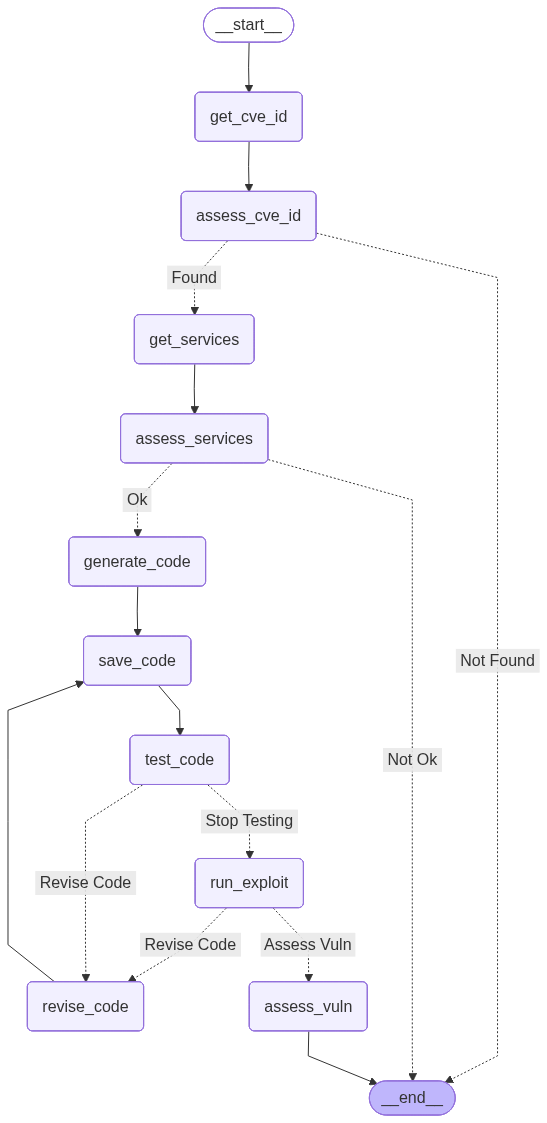
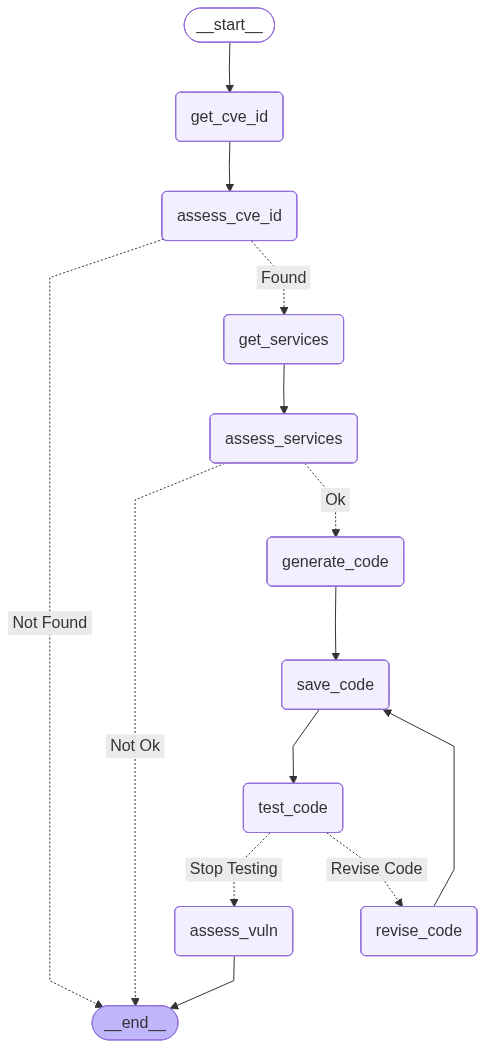
Finalised

diff --git a/src/docker_agent/nodes.py b/src/docker_agent/nodes.py
@@ -820,35 +820,6 @@ def revise_code(state: OverallState):
     }
 
 
-#TODO: define this function
-def run_exploit(state: OverallState):
-    """A PoC is used to exploit the CVE and check if the Docker is vulnerable (but only if the Docker runs)"""
-    
-    if state.milestones.docker_builds and state.milestones.docker_runs:
-        print("\nExploiting Docker vulnerability...")
-        
-    return {"stats": state.stats}
-
-
-def route_exploit(state: OverallState) -> Literal["Assess Vuln", "Revise Code"]:
-    """Route back to fix the code or assess the vulnerability"""
-    output_string = "\nRouting exploit:\n"
-    output_string += f"\t- docker_builds={state.milestones.docker_builds}\n"
-    output_string += f"\t- docker_runs={state.milestones.docker_runs}\n"
-    output_string += f"\t- code_hard_version={state.milestones.code_hard_version}\n"
-    output_string += f"\t- network_setup={state.milestones.network_setup}\n"
-    output_string += f"\t- test_iteration={state.stats.test_iteration}"
-    print(output_string)
-    
-    if state.milestones.docker_builds and state.milestones.docker_runs and state.milestones.code_hard_version and state.milestones.network_setup:        
-        return "Assess Vuln"
-    elif state.stats.test_iteration + 1 >= 10:
-        print("\tMax Iterations Reached!")
-        return "Assess Vuln"
-    else:            
-        return "Revise Code"
-
-
 def run_docker_scout(code_dir_path, index, iid):
     try:
         with builtins.open(f"{code_dir_path}/logs/cves{index}.json", "w") as f:

diff --git a/src/docker_agent/agent.py b/src/docker_agent/agent.py
@@ -17,8 +17,8 @@ from graph import compiled_workflow
 
 def draw_graph():
     try:
-        print(compiled_workflow.get_graph().draw_mermaid())
-        # display(Image(compiled_workflow.get_graph().draw_mermaid_png(output_file_path="Mermaid Chart.png")))
+        # print(compiled_workflow.get_graph().draw_mermaid())
+        display(Image(compiled_workflow.get_graph().draw_mermaid_png(output_file_path="Mermaid Chart.png")))
         
     except Exception as e:
         print(f"Rendering failed with code {e}.\nHere's the Mermaid source:\n{compiled_workflow.get_graph().draw_mermaid()}")
@@ -911,18 +911,18 @@ def best_cve_runs(model: str, logs_set: str, iteration: str, mode: str):
 # )
 
 #* VULNERABILITY ASSESSMENT RELATED STATS *#
-with builtins.open('services.json', "r") as f:
-    jsonServices = json.load(f)
-cve_list = list(jsonServices.keys())[:20]
-df = vuln_ass_stats(
-    cve_list=cve_list, 
-    model="GPT-4o", 
-    logs_set="5th", 
-    iteration="", 
-    web_search_mode="",
-    correct_web_search_only=True,
-    correct_docker_only=False,
-)
+# with builtins.open('services.json', "r") as f:
+#     jsonServices = json.load(f)
+# cve_list = list(jsonServices.keys())[:20]
+# df = vuln_ass_stats(
+#     cve_list=cve_list, 
+#     model="GPT-4o", 
+#     logs_set="5th", 
+#     iteration="", 
+#     web_search_mode="",
+#     correct_web_search_only=True,
+#     correct_docker_only=False,
+# )
 
 
 

diff --git a/src/docker_agent/graph.py b/src/docker_agent/graph.py
@@ -25,7 +25,6 @@ workflow.add_node("save_code", nodes.save_code)
 workflow.add_node("test_code", nodes.test_code)
 workflow.add_node("revise_code", nodes.revise_code)
 workflow.add_node("assess_vuln", nodes.assess_vuln)
-workflow.add_node("run_exploit", nodes.run_exploit)
 
 # Add edges to the workflow
 workflow.add_edge(START, "get_cve_id")
@@ -53,15 +52,7 @@ workflow.add_conditional_edges(
     "test_code",
     nodes.route_test,
     {
-        "Stop Testing": "run_exploit",
-        "Revise Code": "revise_code",
-    },
-)
-workflow.add_conditional_edges(
-    "run_exploit",
-    nodes.route_exploit,
-    {
-        "Assess Vuln": "assess_vuln",
+        "Stop Testing": "assess_vuln",
         "Revise Code": "revise_code",
     },
 )

diff --git a/src/TODOLIST.md b/src/TODOLIST.md
@@ -1,13 +1,10 @@
 # TODOLIST
-Fai una nuova run con GPT-5, poi prepara le slide
 
 
-## Useful for Thesis
+## 4 Thesis
+Benchmark hybrid agent with reusing GPT-4o web search results (maybe just for best web search mode) and GPT-5 reasoning for code development.
+Test the 4 models using local LLMs (wait for API to be up).
 
-
-### Docker Validation with PoC
-- Ultimate goal of the **_run\_exploit_** node function is to launch the PoC for the specific CVE, extract the output, pass it to an LLM-as-a-Judge and evaluate if the output is the desired one (might want to pass the code of the exploit) or if there is a problem with either the docker or the exploit code.
-- All exploits must be tested on a working Docker and adapted to the **_run\_exploit_** function, so that they can be launched after performing _chmod +x_
 
 ### Better graphs
 - Add % values to the heatmap graph
@@ -35,3 +32,4 @@ Fai una nuova run con GPT-5, poi prepara le slide
 ## Future Works
 - Implement MCP for Docker Desktop in another branch for future proofing
 - Implement RAG for fixes, instead of passing entire list, ask LLM to summarise the fix list and pass summary instead
+- Fully implement the **_run\_exploit_** node function: launch the PoC for the specific CVE, extract the output, pass it to an LLM-as-a-Judge and evaluate if the output is the desired one (might want to pass the code of the exploit) or if there is a problem with either the docker or the exploit code. All exploits must be tested on a working Docker and adapted to the **_run\_exploit_** function, so that they can be launched after performing _chmod +x_
